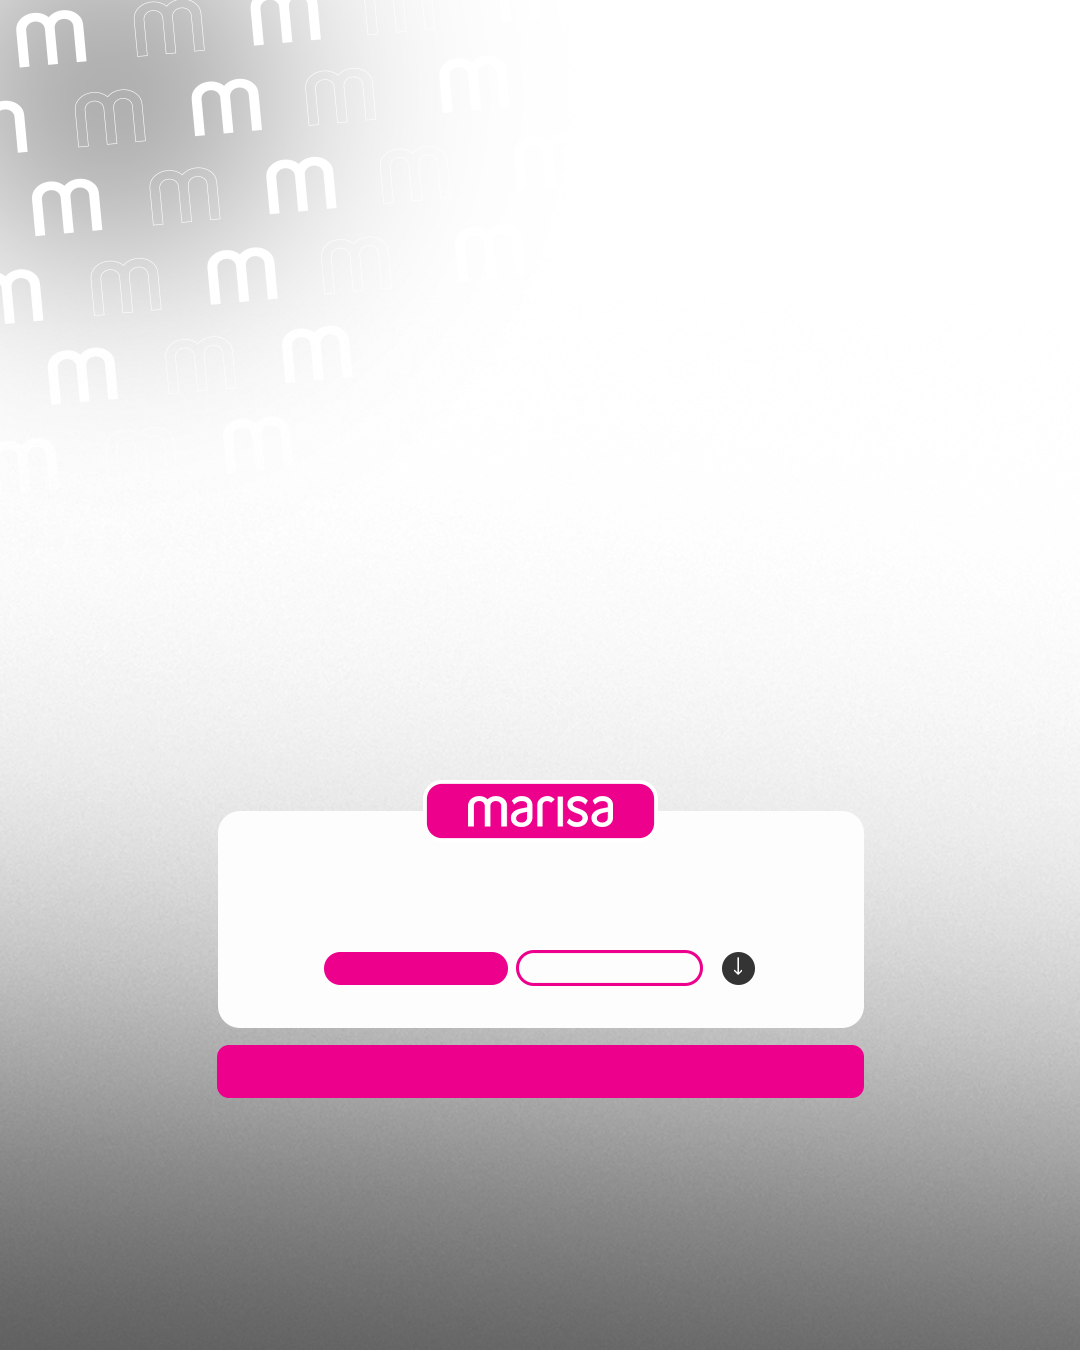
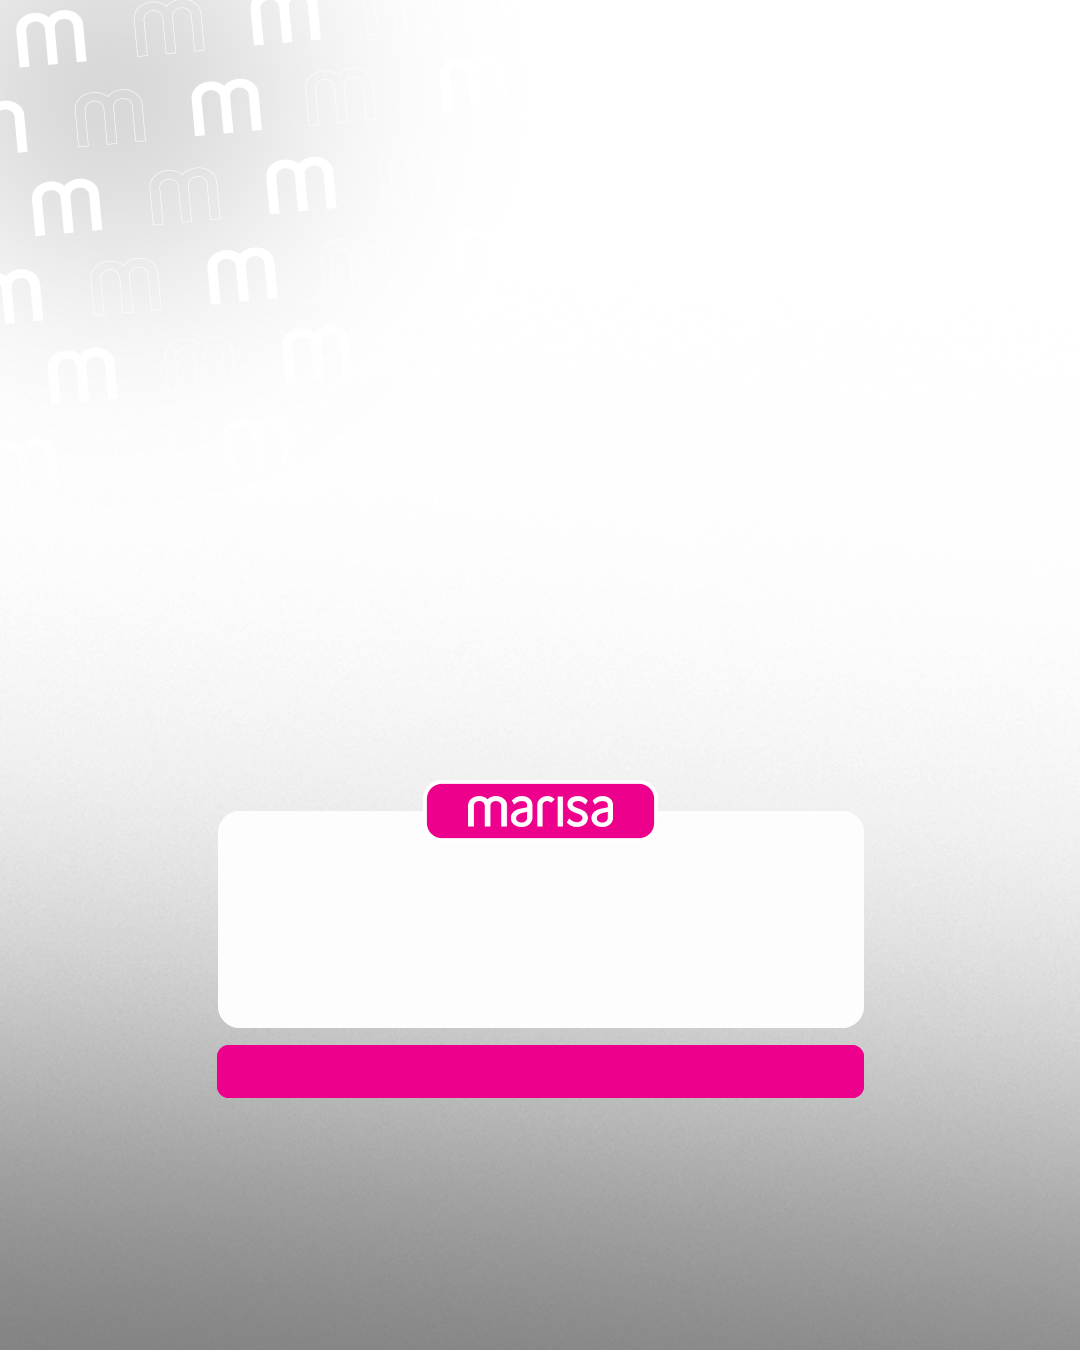
Refactor Marisa poster layout

diff --git a/src/components/CartazPreviewMarisa.tsx b/src/components/CartazPreviewMarisa.tsx
@@ -71,27 +71,85 @@ export const CartazPreviewMarisa = ({ data }: CartazPreviewMarisaProps) => {
 
     // Posicionar textos sobre o PNG conforme referência
     
-    // Cargo (onde está "Líder de Vendas")
+    // Cargo (onde está escrito "Líder de Vendas")
     ctx.fillStyle = '#E5007E';
     ctx.font = 'bold 52px Montserrat, Arial';
     ctx.textAlign = 'center';
     const cargoText = data.cargo || 'Nome da Vaga';
     ctx.fillText(cargoText, 480, 820);
 
-    // Tipo de contrato (badge rosa à esquerda - "Vaga efetiva")
+    // Badges dinâmicos
+    const badgeY = 870; // Posição Y ajustada (mais acima)
+    const badgePadding = 20;
+    const badgeHeight = 40;
+    const badgeRadius = 20;
+    const gapBetweenBadges = 30;
+
+    // Medir texto do tipo de contrato
+    ctx.font = 'bold 20px Montserrat, Arial';
+    const tipoContratoText = data.tipoContrato || 'Tipo de Contrato';
+    const tipoContratoWidth = ctx.measureText(tipoContratoText).width;
+    const badge1Width = tipoContratoWidth + (badgePadding * 2);
+
+    // Medir texto do local
+    const localText = data.local || 'Local';
+    const localWidth = ctx.measureText(localText).width;
+    const badge2Width = localWidth + (badgePadding * 2);
+
+    // Calcular posições centralizadas
+    const totalWidth = badge1Width + gapBetweenBadges + badge2Width;
+    const startX = (960 - totalWidth) / 2;
+
+    const badge1X = startX;
+    const badge1CenterX = badge1X + badge1Width / 2;
+    
+    const badge2X = badge1X + badge1Width + gapBetweenBadges;
+    const badge2CenterX = badge2X + badge2Width / 2;
+
+    // Desenhar badge 1 (rosa - tipo de contrato)
+    ctx.fillStyle = '#E5007E';
+    ctx.beginPath();
+    ctx.roundRect(badge1X, badgeY, badge1Width, badgeHeight, badgeRadius);
+    ctx.fill();
+
+    // Texto do badge 1 (branco)
     ctx.fillStyle = '#FFFFFF';
     ctx.font = 'bold 20px Montserrat, Arial';
     ctx.textAlign = 'center';
-    ctx.fillText(data.tipoContrato, 377, 888);
+    ctx.textBaseline = 'middle';
+    ctx.fillText(tipoContratoText, badge1CenterX, badgeY + badgeHeight / 2);
 
-    // Local (badge branco à direita - "São Paulo - SP")
+    // Desenhar seta entre os badges
+    const arrowX = badge1X + badge1Width + (gapBetweenBadges / 2);
+    const arrowY = badgeY + badgeHeight / 2;
+    const arrowSize = 8;
+    
     ctx.fillStyle = '#E5007E';
-    ctx.fillText(data.local || 'Local', 553, 888);
+    ctx.beginPath();
+    ctx.moveTo(arrowX - arrowSize, arrowY - arrowSize);
+    ctx.lineTo(arrowX + arrowSize, arrowY);
+    ctx.lineTo(arrowX - arrowSize, arrowY + arrowSize);
+    ctx.closePath();
+    ctx.fill();
+
+    // Desenhar badge 2 (branco - local)
+    ctx.fillStyle = '#FFFFFF';
+    ctx.beginPath();
+    ctx.roundRect(badge2X, badgeY, badge2Width, badgeHeight, badgeRadius);
+    ctx.fill();
+
+    // Texto do badge 2 (rosa)
+    ctx.fillStyle = '#E5007E';
+    ctx.font = 'bold 20px Montserrat, Arial';
+    ctx.textAlign = 'center';
+    ctx.textBaseline = 'middle';
+    ctx.fillText(localText, badge2CenterX, badgeY + badgeHeight / 2);
 
     // Footer - texto
     ctx.fillStyle = '#FFFFFF';
     ctx.font = 'bold 26px Montserrat, Arial';
     ctx.textAlign = 'center';
+    ctx.textBaseline = 'alphabetic';
     ctx.fillText('novotemporh.com.br/marisa', 490, 1000);
   };
 
